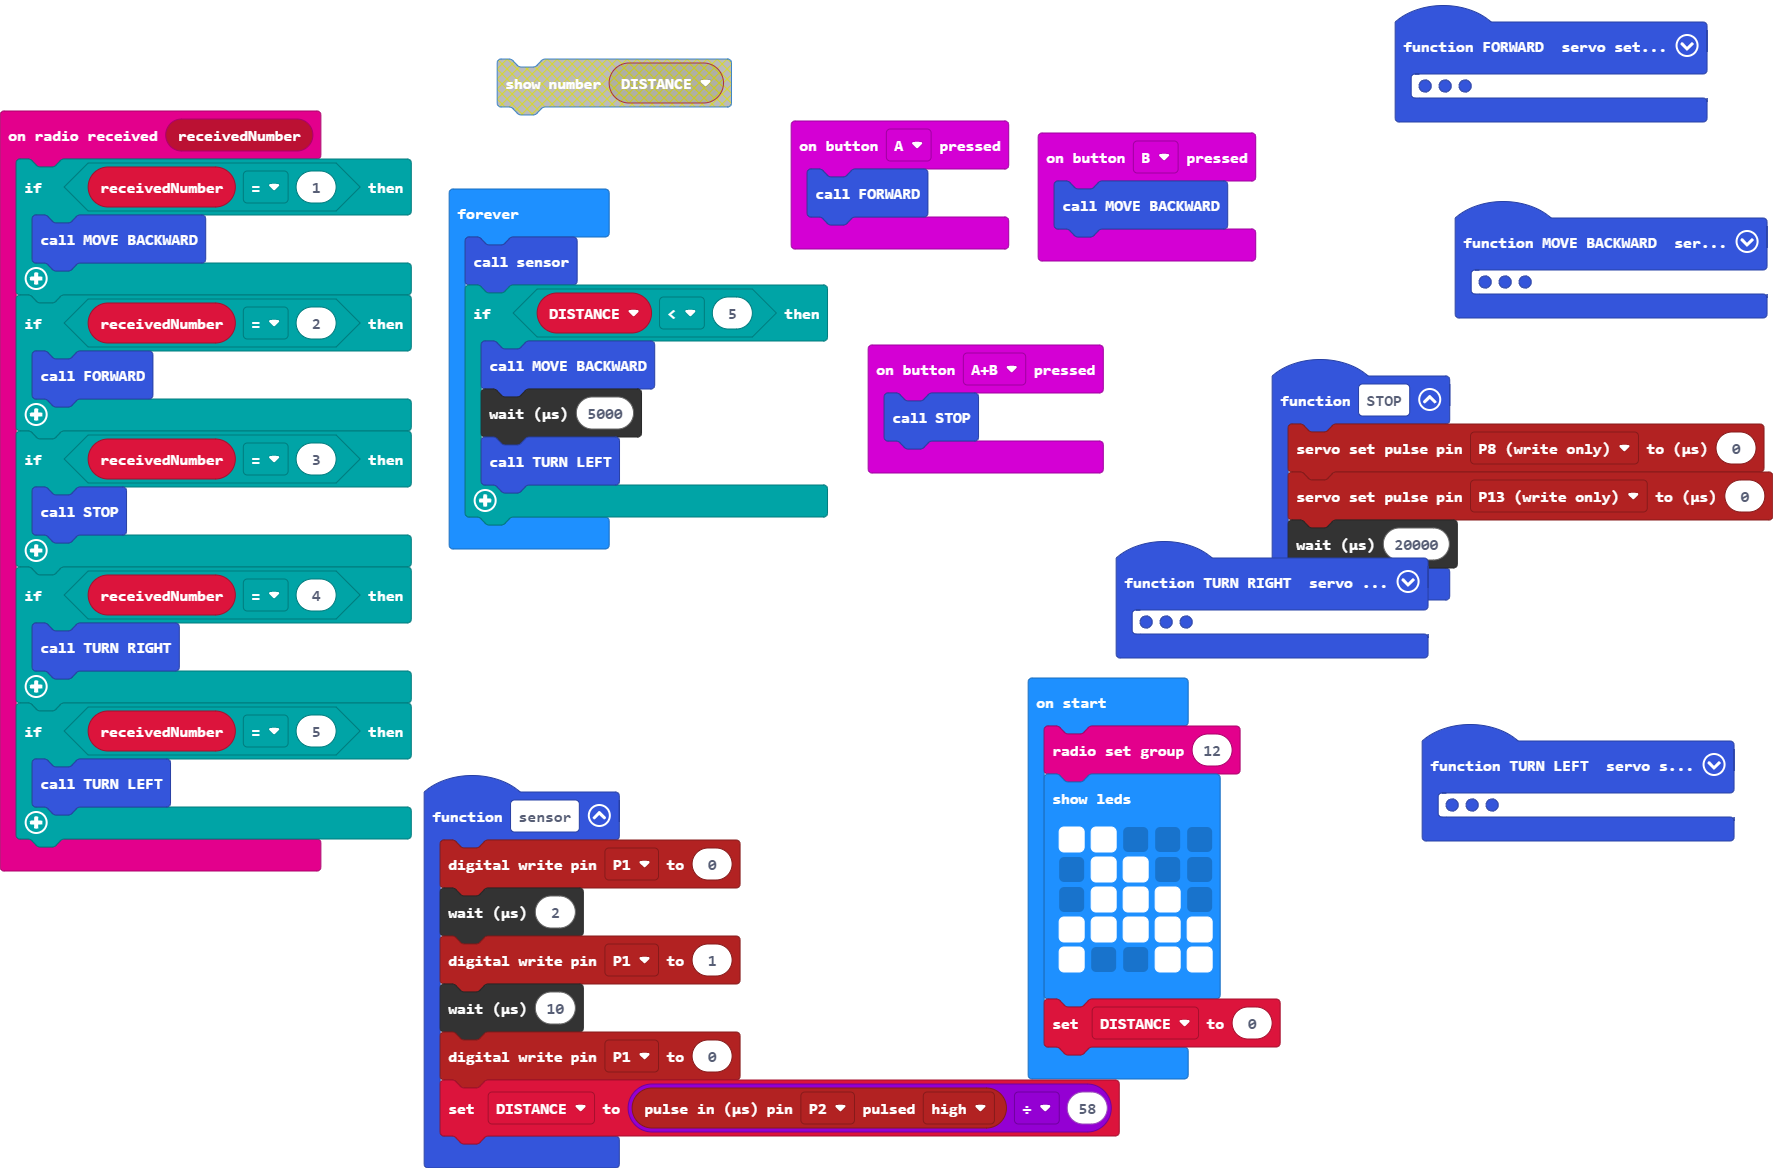
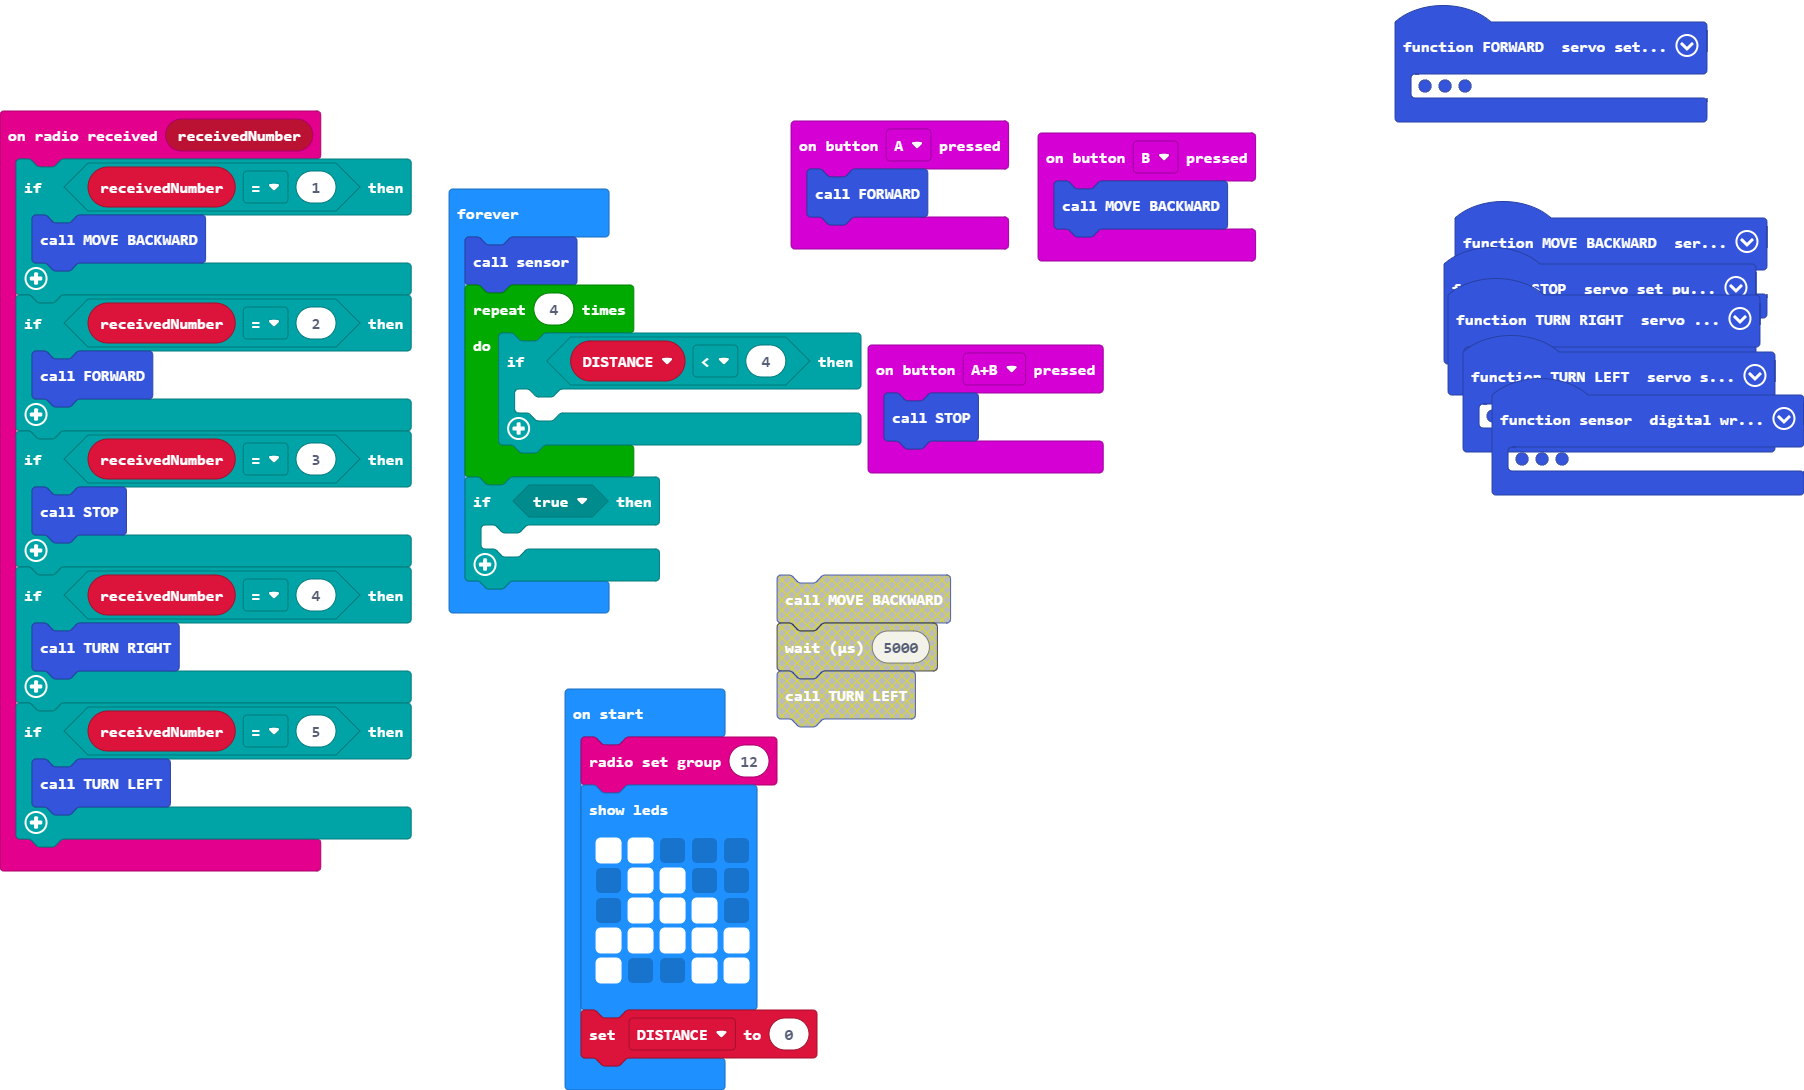
Update main.blocks, main.ts

diff --git a/main.ts b/main.ts
@@ -67,9 +67,12 @@ basic.showLeds(`
 DISTANCE = 0
 basic.forever(function () {
     sensor()
-    if (DISTANCE < 5) {
-        MOVE_BACKWARD()
-        control.waitMicros(5000)
-        TURN_LEFT()
+    for (let index = 0; index < 4; index++) {
+        if (DISTANCE < 4) {
+        	
+        }
+    }
+    if (true) {
+    	
     }
 })
